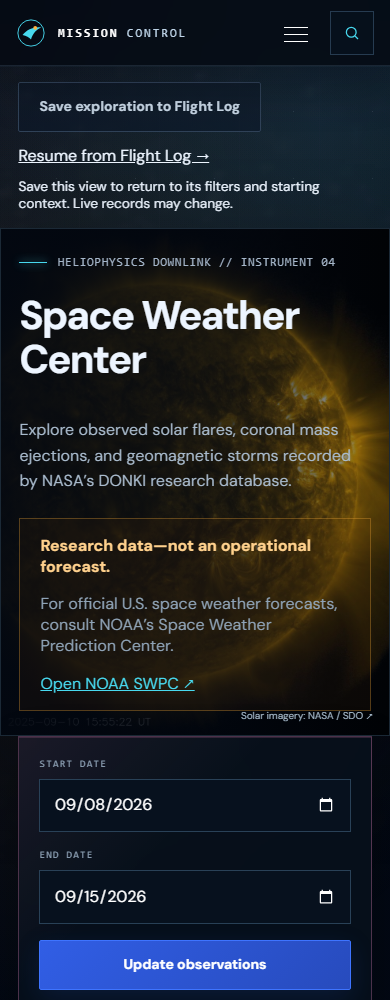
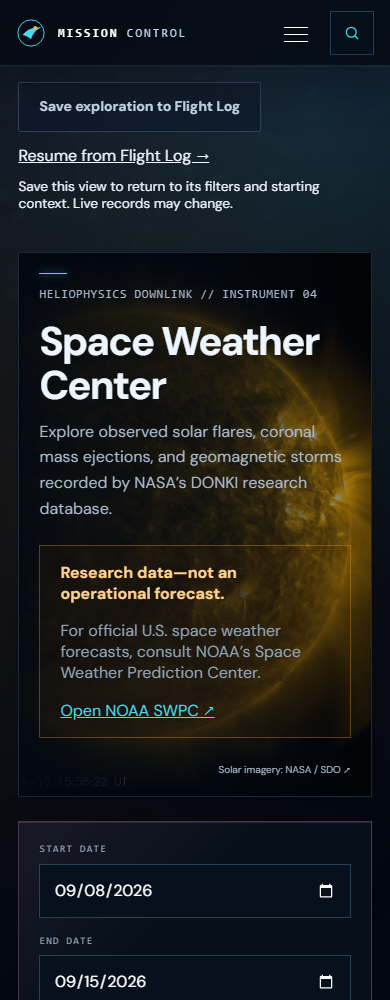
design: match asteroid and space weather header composition

Changed region(s): [[0.0308, 0.217, 1.0, 0.992], [0.8923, 0.775, 0.9538, 0.837]]

diff --git a/apps/client/src/pages/SpaceWeatherPage.tsx b/apps/client/src/pages/SpaceWeatherPage.tsx
@@ -70,36 +70,42 @@ export function SpaceWeatherPage() {
 
   return (
     <>
-      <section className="section weather-intro weather-intro--visual">
-        <div>
-          <p className="kicker">
-            <span />
-            Heliophysics downlink // Instrument 04
-          </p>
-          <h1>Space Weather Center</h1>
-        </div>
-        <p>
-          Explore observed solar flares, coronal mass ejections, and geomagnetic
-          storms recorded by NASA’s DONKI research database.
-        </p>
-        <aside>
-          <strong>Research data—not an operational forecast.</strong>
+      <section className="section weather-header-section">
+        <div className="weather-intro weather-intro--visual">
+          <div>
+            <p className="kicker">
+              <span />
+              Heliophysics downlink // Instrument 04
+            </p>
+            <h1>Space Weather Center</h1>
+          </div>
           <p>
-            For official U.S. space weather forecasts, consult NOAA’s Space
-            Weather Prediction Center.
+            Explore observed solar flares, coronal mass ejections, and
+            geomagnetic storms recorded by NASA’s DONKI research database.
           </p>
-          <a href="https://www.swpc.noaa.gov/" target="_blank" rel="noreferrer">
-            Open NOAA SWPC ↗
+          <aside>
+            <strong>Research data—not an operational forecast.</strong>
+            <p>
+              For official U.S. space weather forecasts, consult NOAA’s Space
+              Weather Prediction Center.
+            </p>
+            <a
+              href="https://www.swpc.noaa.gov/"
+              target="_blank"
+              rel="noreferrer"
+            >
+              Open NOAA SWPC ↗
+            </a>
+          </aside>
+          <a
+            className="module-image-credit"
+            href="https://images.nasa.gov/details/PIA26681"
+            target="_blank"
+            rel="noreferrer"
+          >
+            Solar imagery: NASA / SDO ↗
           </a>
-        </aside>
-        <a
-          className="module-image-credit"
-          href="https://images.nasa.gov/details/PIA26681"
-          target="_blank"
-          rel="noreferrer"
-        >
-          Solar imagery: NASA / SDO ↗
-        </a>
+        </div>
       </section>
       <section className="section weather-console-section">
         <form className="weather-console" onSubmit={submit}>

diff --git a/apps/client/src/styles/global.css b/apps/client/src/styles/global.css
@@ -7159,3 +7159,43 @@ main :is(a, button, input, select, textarea, summary) {
     font-size: 0.65rem;
   }
 }
+
+/* Both illustrated data headers share the same content edges and inset. */
+.asteroid-page,
+.weather-header-section {
+  padding-top: 1.5rem;
+}
+.weather-header-section {
+  padding-bottom: 1.5rem;
+}
+.asteroid-intro--visual,
+.weather-header-section .weather-intro--visual {
+  display: block;
+  padding: clamp(1.25rem, 3vw, 2.5rem);
+  margin: 0;
+}
+.asteroid-page > .asteroid-intro--visual {
+  margin-bottom: 1.5rem;
+}
+:is(.asteroid-intro--visual, .weather-header-section .weather-intro--visual)
+  .kicker {
+  margin-bottom: 1rem;
+}
+:is(.asteroid-intro--visual, .weather-header-section .weather-intro--visual)
+  h1 {
+  max-width: none;
+  margin: 0 0 0.75rem;
+}
+.weather-header-section .weather-intro > p {
+  max-width: 65ch;
+}
+.weather-header-section .weather-intro aside {
+  margin-top: 1.5rem;
+}
+:is(.asteroid-intro--visual, .weather-header-section .weather-intro--visual)
+  .module-image-credit {
+  position: static;
+  display: block;
+  margin-top: 1.5rem;
+  text-align: right;
+}

diff --git a/apps/client/src/pages/AsteroidsPage.tsx b/apps/client/src/pages/AsteroidsPage.tsx
@@ -71,11 +71,7 @@ export function AsteroidsPage() {
           <span />
           Instrument 02
         </p>
-        <h1>
-          Asteroid
-          <br />
-          Watch
-        </h1>
+        <h1>Asteroid Watch</h1>
         <a
           className="module-image-credit"
           href="https://images.nasa.gov/details/2019-02-25_regolith_image_compilation"

diff --git a/README.md b/README.md
@@ -367,6 +367,8 @@ The [current five-phase roadmap](docs/next-roadmap.md) tracks the September 8 cy
 
 90. **Complete — Launch polish phase 2:** standardized page introductions and heading scale, aligned Media Library content, tightened spacing before Earth and weather controls, and preserved full APOD image framing. All 46 browser tests pass. See [before/after evidence](docs/page-composition.md).
 
+91. **Complete — Illustrated header consistency:** matched Space Weather and Asteroid Watch header widths, padding, title flow, and spacing before controls. Preserved NASA image credits and the weather research notice. See [composition notes](docs/page-composition.md).
+
 ## Screenshots
 
 The captures below use deterministic mocked NASA content. Regenerate them with `npm run screenshots:update` without consuming NASA API quota.

diff --git a/docs/page-composition.md b/docs/page-composition.md
@@ -4,6 +4,8 @@ Shared CSS now gives the eight main exploration and saved-content pages a consis
 
 Existing feature behavior, data integration, keyboard order, mission-card imagery, and the single-column homepage remain unchanged. Detail-page cinematic layouts retain their existing composition.
 
+Header consistency follow-up: Space Weather and Asteroid Watch now share the same outer content edges, responsive inner padding, title spacing, and gap before controls. Titles wrap naturally. Their NASA backgrounds remain distinct, and image credits occupy normal layout space to prevent overlap. Space Weather retains its research-use notice below its description.
+
 ## Verification
 
 - Typecheck, lint, unit/component/accessibility tests, production build, all 46 production browser tests, and compressed asset budgets passed.
